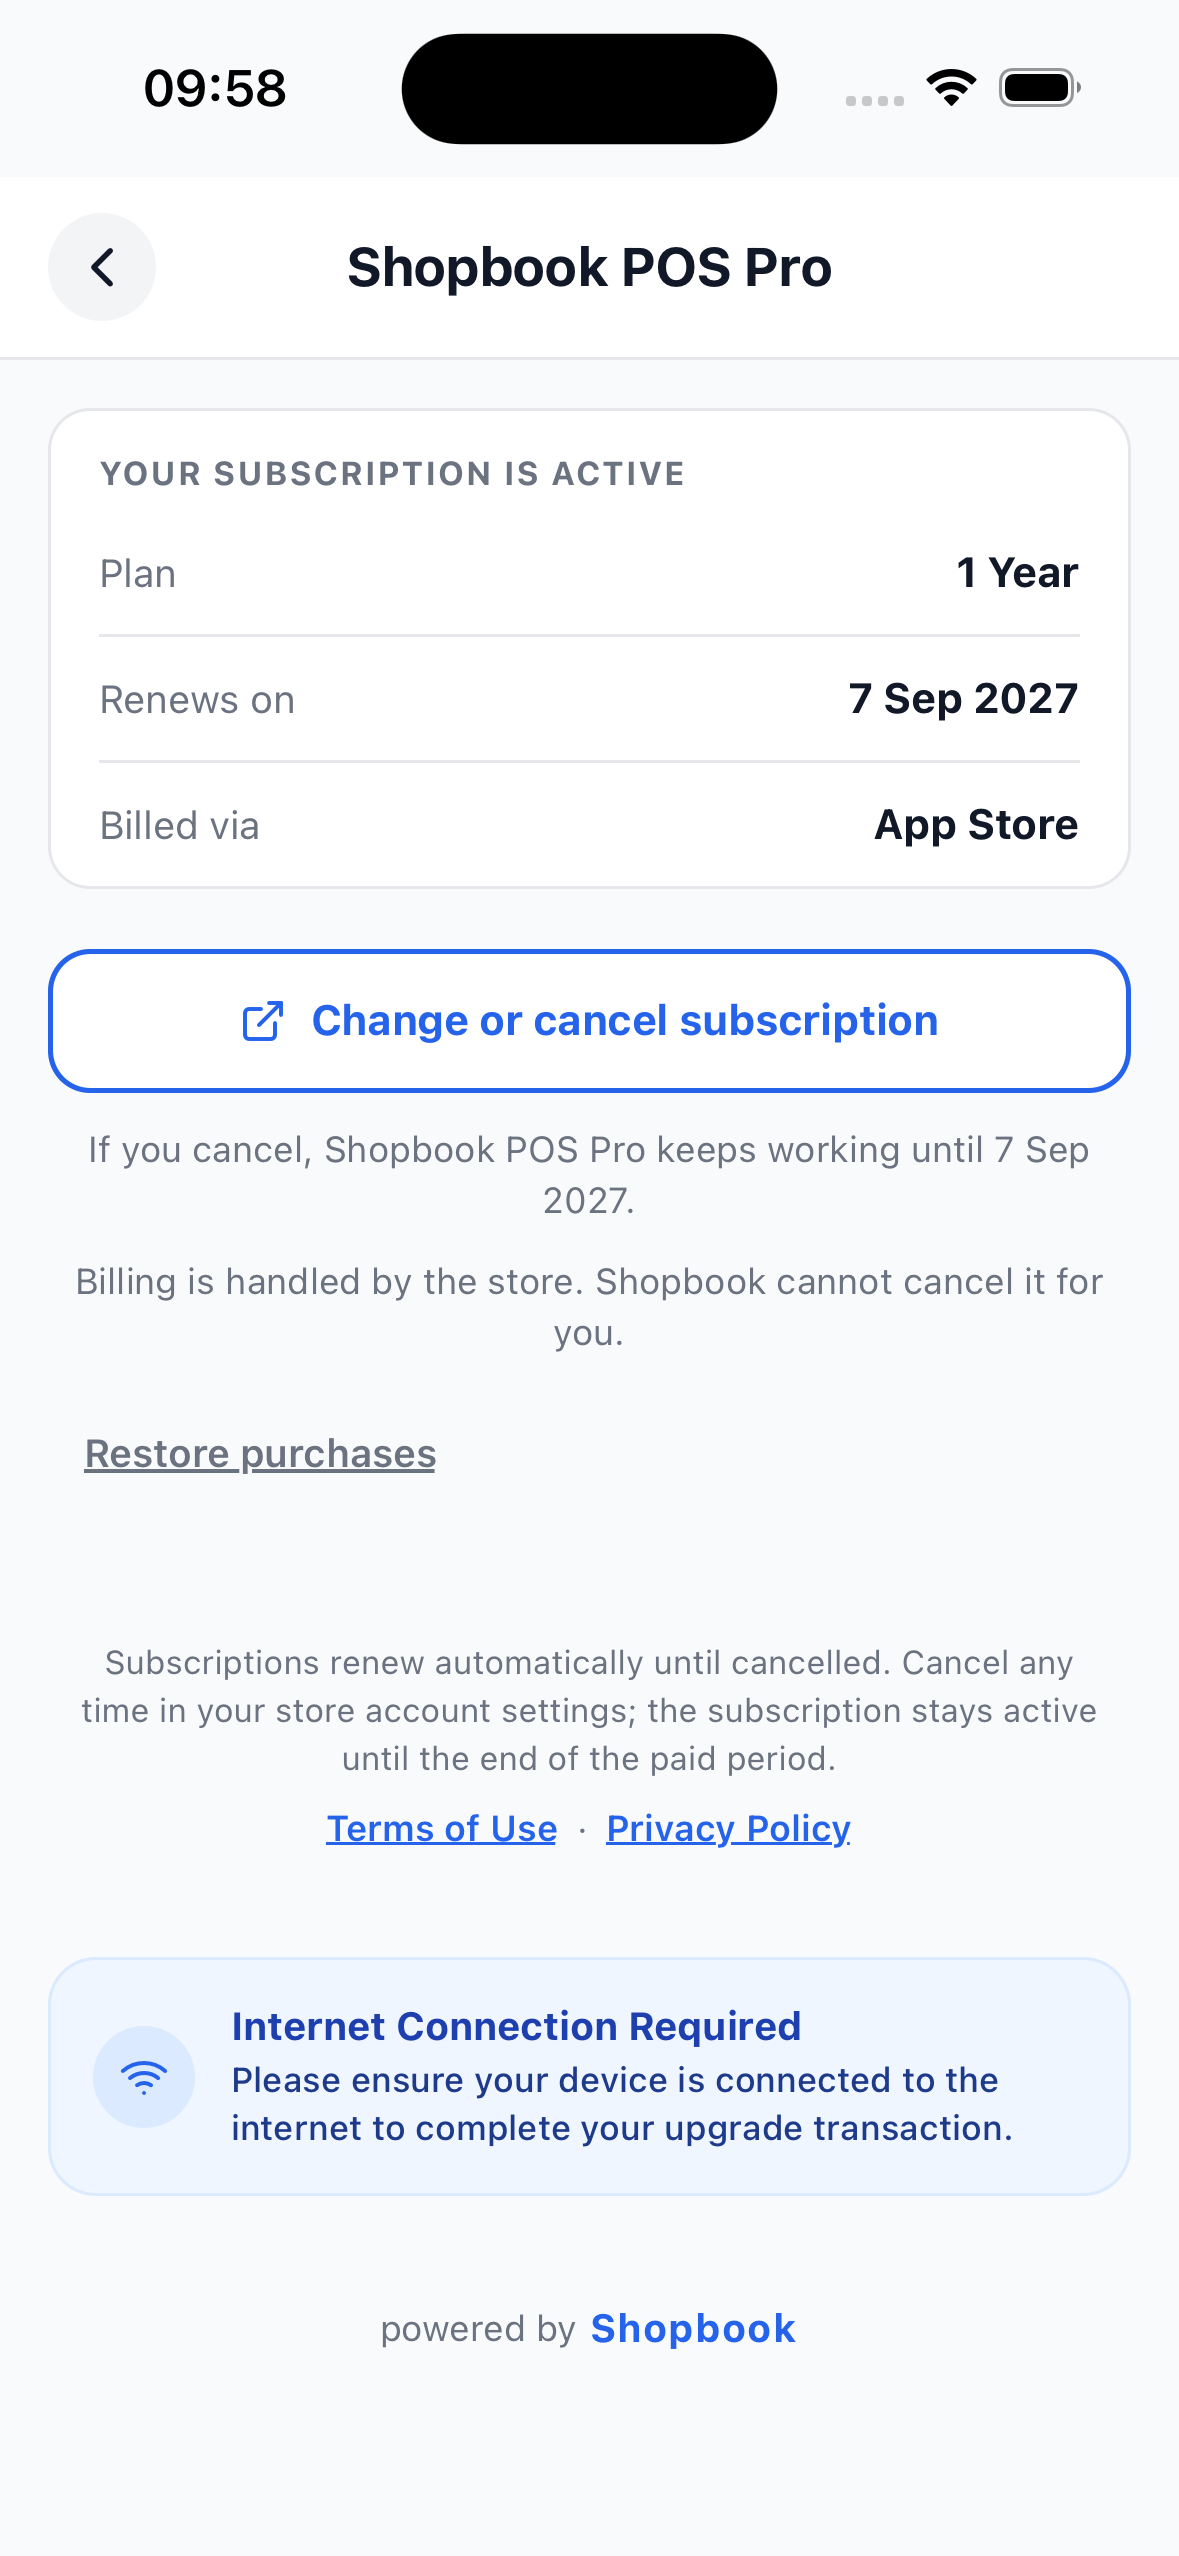
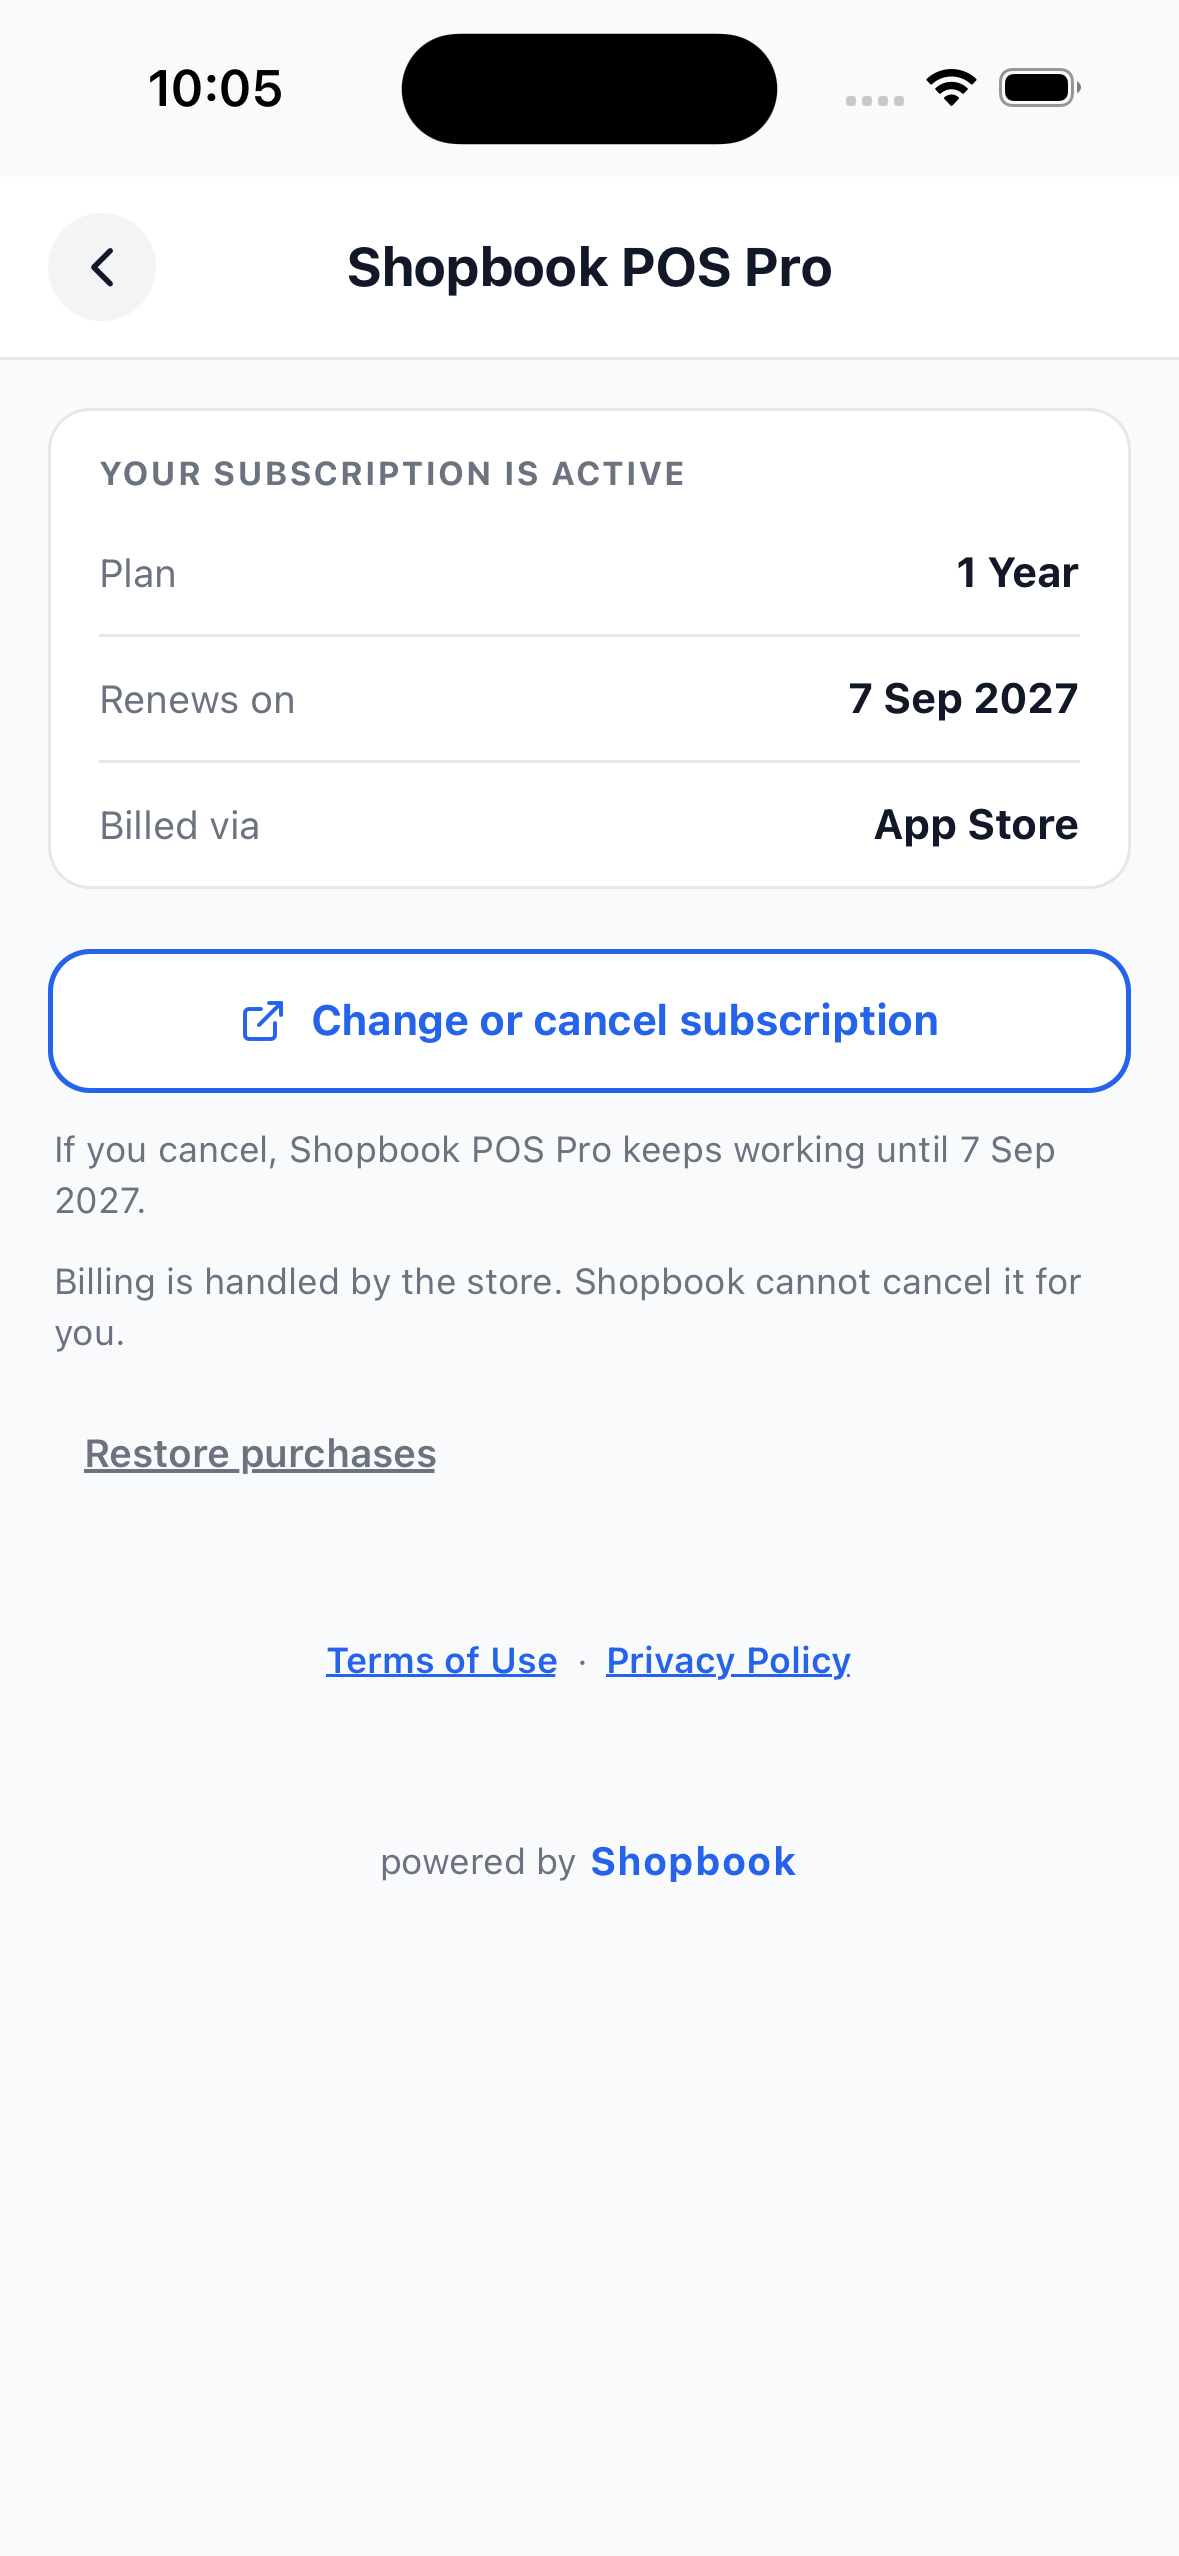
fix: bound the entitlement wait, and stop showing purchase chrome to subscribers
app/index.tsx waited for the first entitlement resolution with no deadline.
A session that is logged in but has never resolved one — offline at first
launch after login, or a refresh that failed — spun forever, with no error,
no retry and no way out. On a till that is a dead terminal and nothing to
act on. The wait now expires after eight seconds and routes on what is
known, which sends an unverified session to the paywall where Restore and
Log out are both reachable.

The manage screen was also showing two things that only make sense before a
purchase: the auto-renew disclosure Apple requires on a paywall, and a
notice demanding an internet connection "to complete your upgrade
transaction". Neither applies to someone already subscribed, and the second
is actively wrong — a paying shop is meant to keep working offline, which
it does, because a failed refresh leaves the cached entitlement intact.

Notes under the cancel action now read as left-aligned lines rather than
three centred blocks.

diff --git a/mobile/app/(modules)/profile/premium-plans.tsx b/mobile/app/(modules)/profile/premium-plans.tsx
@@ -493,7 +493,9 @@ export default function PremiumPlansRoute() {
         {/* ---------- Store-mandated disclosure. Apple 3.1.2 rejects paywalls
                       without auto-renew terms, Restore, Terms and Privacy. ---------- */}
         <View style={styles.legalBlock}>
-          <Text style={styles.autoRenewNotice}>{t('premium.autoRenewNotice')}</Text>
+          {(!isPro || isTrial) && (
+            <Text style={styles.autoRenewNotice}>{t('premium.autoRenewNotice')}</Text>
+          )}
           <View style={styles.legalLinksRow}>
             {isOwner && !isPro && (
               <>
@@ -513,18 +515,20 @@ export default function PremiumPlansRoute() {
           </View>
         </View>
 
-        <View style={styles.wifiNoticeBox}>
-          <View style={styles.wifiIconCircle}>
-            <Feather name="wifi" size={16} color={TOKENS.primary} />
+        {(!isPro || isTrial) && (
+          <View style={styles.wifiNoticeBox}>
+            <View style={styles.wifiIconCircle}>
+              <Feather name="wifi" size={16} color={TOKENS.primary} />
+            </View>
+            <View style={{ flex: 1, gap: 2 }}>
+              <Text style={styles.wifiNoticeTitle}>Internet Connection Required</Text>
+              <Text style={styles.wifiNoticeText}>
+                Please ensure your device is connected to the internet to complete your upgrade
+                transaction.
+              </Text>
+            </View>
           </View>
-          <View style={{ flex: 1, gap: 2 }}>
-            <Text style={styles.wifiNoticeTitle}>Internet Connection Required</Text>
-            <Text style={styles.wifiNoticeText}>
-              Please ensure your device is connected to the internet to complete your upgrade
-              transaction.
-            </Text>
-          </View>
-        </View>
+        )}
 
         <PoweredBy />
       </ScrollView>
@@ -886,8 +890,7 @@ const styles = StyleSheet.create({
     fontSize: 12,
     color: TOKENS.muted,
     lineHeight: 17,
-    textAlign: 'center',
-    paddingHorizontal: 4,
+    paddingHorizontal: 2,
   },
   manageCard: {
     gap: 10,
@@ -910,6 +913,7 @@ const styles = StyleSheet.create({
     color: TOKENS.primary,
   },
   secondaryLink: {
+    alignSelf: 'flex-start',
     paddingHorizontal: 12,
     paddingVertical: 14,
   },

diff --git a/mobile/app/index.tsx b/mobile/app/index.tsx
@@ -11,6 +11,7 @@ export default function SessionGateRoute() {
   const [hasHydrated, setHasHydrated] = useState(false);
   const isPro = useEntitlementStore((s) => s.isPro);
   const checkedAt = useEntitlementStore((s) => s.checkedAt);
+  const [entitlementTimedOut, setEntitlementTimedOut] = useState(false);
 
   useEffect(() => {
     const checkHydration = () => {
@@ -36,6 +37,17 @@ export default function SessionGateRoute() {
       unsubBridge();
     };
   }, []);
+
+  // A session that has never resolved an entitlement waits for the first
+  // refresh, but not forever: with no connectivity that check never returns,
+  // and an unbounded wait leaves a till showing a spinner with no way out.
+  // After the deadline we route on what we have, which sends an unverified
+  // session to the paywall — where Restore and Log out are both reachable.
+  useEffect(() => {
+    if (checkedAt !== null) return;
+    const timer = setTimeout(() => setEntitlementTimedOut(true), 8000);
+    return () => clearTimeout(timer);
+  }, [checkedAt]);
 
   useEffect(() => {
     if (hasHydrated && isLoggedIn) {
@@ -68,7 +80,7 @@ export default function SessionGateRoute() {
   // refresh above corrects it in the background. Only a session that has
   // never resolved an entitlement waits, which avoids showing the paywall to
   // a subscriber for a frame on every cold start.
-  if (checkedAt === null) {
+  if (checkedAt === null && !entitlementTimedOut) {
     return (
       <View
         style={{
